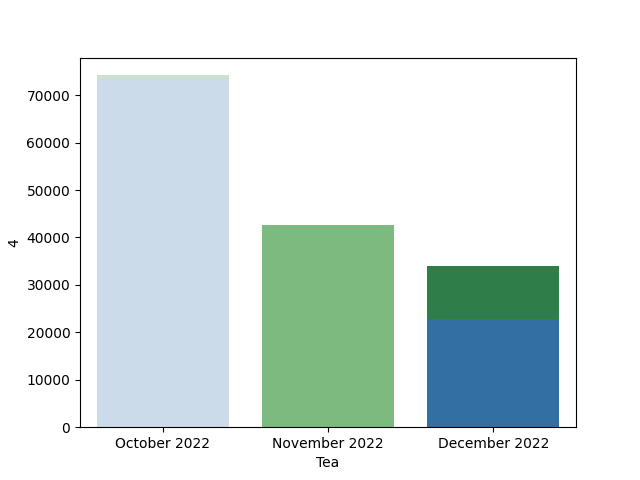
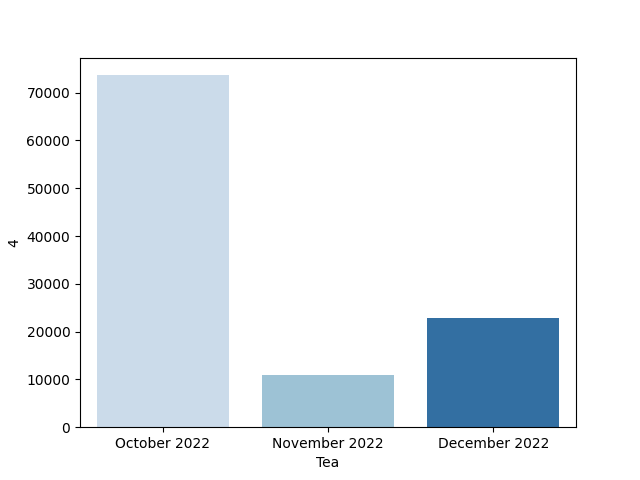
bugs fixed

diff --git a/templates/statistics.html b/templates/statistics.html
@@ -54,28 +54,34 @@
    </div>
   
 
-   <div id="middlebox">
-        <h6> Total Teabags in different months</h6>
-        <img src='./static/uploads/tbs.png' width="370" height="300"/>
-
-   </div>
-
-   <br>
-
-   <div id="middlebox">
-        <h6> Total Sachets in different months</h6>
-        <img src='./static/uploads/sachet.png' width="370" height="300"/>
-
-    </div>
-
-    <br>
-
     <div id="middlebox">
-        <h6> Total Units in different months</h6>
-        <img src='./static/uploads/units.png' width="370" height="300"/>
+
+            <div >
+                <h2> TEABAGS IN MONTHS</h2>
+                <img src='./static/uploads/tbs.png' width="370" height="300"/>
+
+            </div>
+
+             <br>
+
+            <div >
+                <h2> SACHETS IN MONTHS</h2>
+                <img src='./static/uploads/sachet.png' width="370" height="300"/>
+
+            </div>
+
+            <br>
+
+            <div>
+                <h2> TOTAL UNITS IN MONTHS</h2>
+                <img src='./static/uploads/units.png' width="370" height="300"/>
+
+             </div>
+
+
 
     </div>
-
+        
 
    
 

diff --git a/static/main.css b/static/main.css
@@ -34,7 +34,7 @@
   #middlebox{ 
     background:whitesmoke;
     margin-top: 200px;
-    width:50%;
+    width:100%;
     height:30px;
     
     padding-left: 100px;
@@ -90,6 +90,7 @@
 
 
 body {
+    
     background: #fafafa;
     color: #333333;
     margin-top: 5rem;
@@ -105,6 +106,7 @@ body {
   
   .site-header .navbar-nav .nav-link {
     color: #cbd5db;
+    
   }
   
   .site-header .navbar-nav .nav-link:hover {

diff --git a/app.py b/app.py
@@ -69,6 +69,12 @@ def statistics():
     import matplotlib.pyplot as plt
     plt.switch_backend('agg')
 
+    monthly_table1 = pd.DataFrame(dict1)
+    sns_plot1= sns.barplot(data=monthly_table1, x="Tea", y="Weight",  palette = "Purples")
+    fig1 = sns_plot1.get_figure()
+    fig1.savefig("./static/uploads/wgt.png")
+
+
 
     monthly_table1 = pd.DataFrame(dict1)
     sns_plot= sns.barplot(data=monthly_table1, x="Tea", y="Count",  palette = "Blues")
@@ -76,9 +82,7 @@ def statistics():
     fig.savefig("./static/uploads/output.png")
     #fig=sns_plot.get_figure().savefig("./static/uploads/output.png")
 
-    sns_plot= sns.barplot(data=monthly_table1, x="Tea", y="Weight")
-    fig = sns_plot.get_figure()
-    fig.savefig("./static/uploads/wgt.png")
+
 
 
     # taking the sum of all the teabags
@@ -94,21 +98,27 @@ def statistics():
     overall_dict[c]= lst
     overall= pd.DataFrame(overall_dict)
 
+
+    df_sachet=pd.DataFrame((overall.loc[4]))
+    plot_sachet=sns.barplot(data=df_sachet, x=df_sachet.index, y=4,  palette = "Blues")
+    fig_sachet = plot_sachet.get_figure()
+    fig_sachet.savefig("./static/uploads/sachet.png")
+
     df_tbs=pd.DataFrame((overall.loc[3]))
-    plot_tbs=sns.barplot(data=df_tbs, x=df_tbs.index, y=3, palette = "Greens")
+    plot_tbs=sns.barplot(data=df_tbs, x=df_tbs.index, y=3, palette = "Greys")
     fig_tbs = plot_tbs.get_figure()
     fig_tbs.savefig("./static/uploads/tbs.png")
 
-    df_sachet=pd.DataFrame((overall.loc[4]))
-    plot_sachet=sns.barplot(data=df_sachet, x=df_tbs.index, y=4,  palette = "Blues")
-    fig_sachet = plot_sachet.get_figure()
-    fig_sachet.savefig("./static/uploads/sachet.png")
+    
     
 
     df_units=pd.DataFrame((overall.loc[5]))
     plot_units=sns.barplot(data=df_units, x=df_tbs.index, y=5,  palette = "Reds")
     fig_units = plot_units.get_figure()
     fig_units.savefig("./static/uploads/units.png")
+
+
+    
     
     overall_html = overall.to_html(classes='table table-stripped')
    
